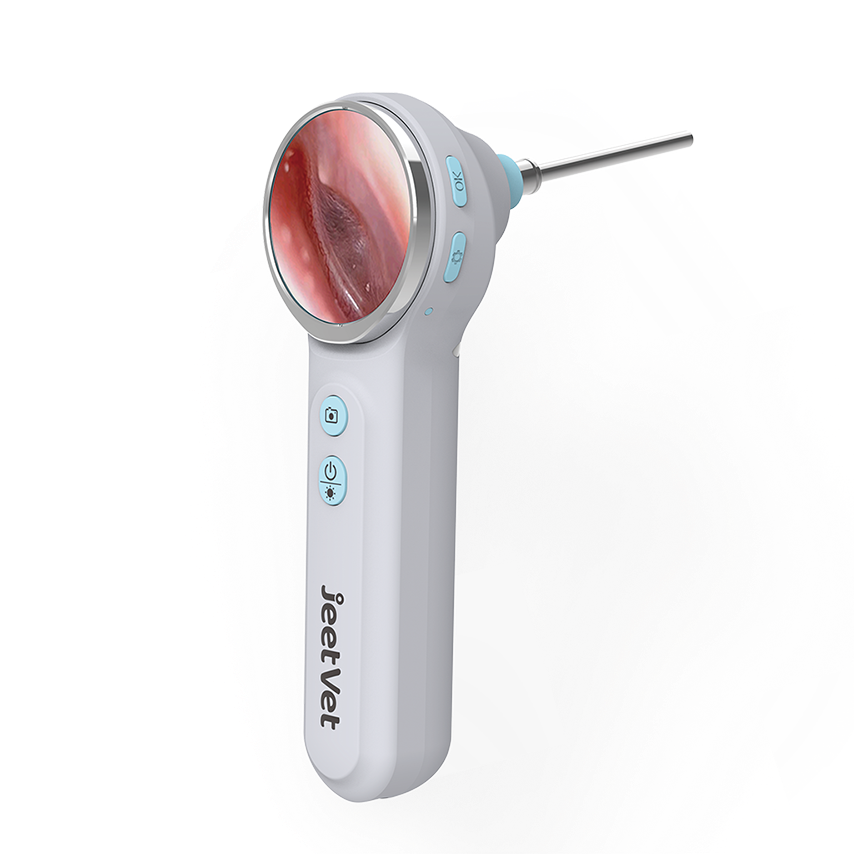
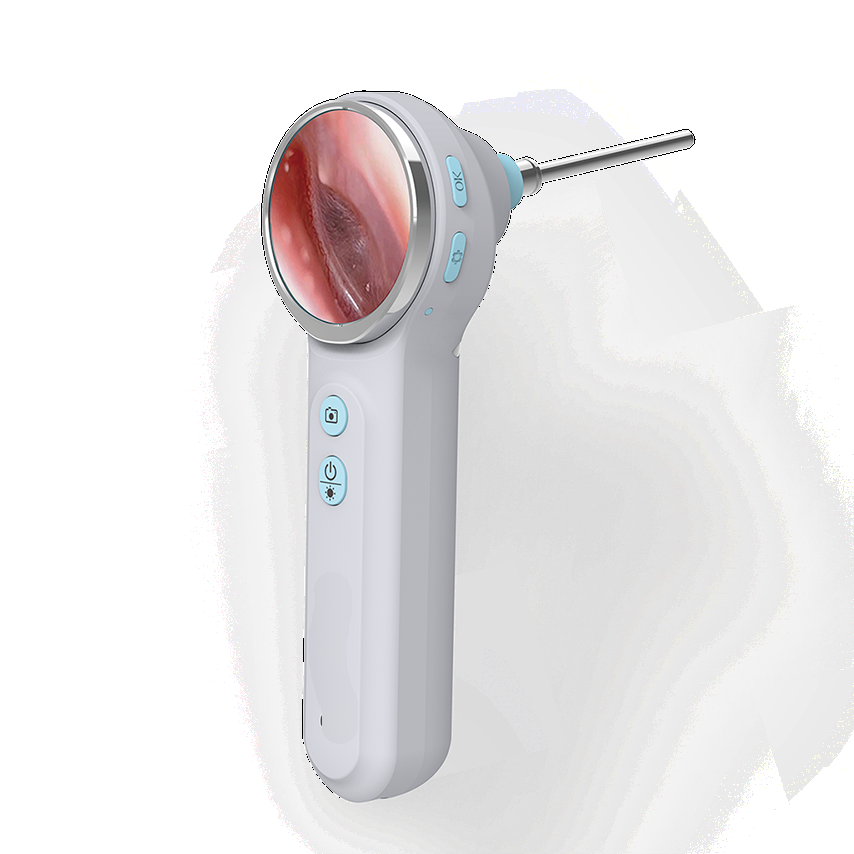
Update RAE 105, 107, 500 images and replace rae109.jpg with rae109.png in products

Changed region(s): [[0.4262, 0.3349, 0.8525, 1.0], [0.3653, 0.6698, 0.3958, 0.8525]]

diff --git a/products.html b/products.html
@@ -778,7 +778,7 @@
              <!-- RAE 109 -->
              <div class="prod-detail-card" id="rae109">
                <div class="prod-detail-img-wrap">
-                 <img src="rae109.jpg?v=1" alt="RAE 109 Portable USB Gastroscope" class="prod-detail-img"/>
+                 <img src="rae109.png?v=1" alt="RAE 109 Portable USB Gastroscope" class="prod-detail-img"/>
                  <div class="prod-model-badge">RAE 109</div>
                </div>
                <div class="prod-detail-content">